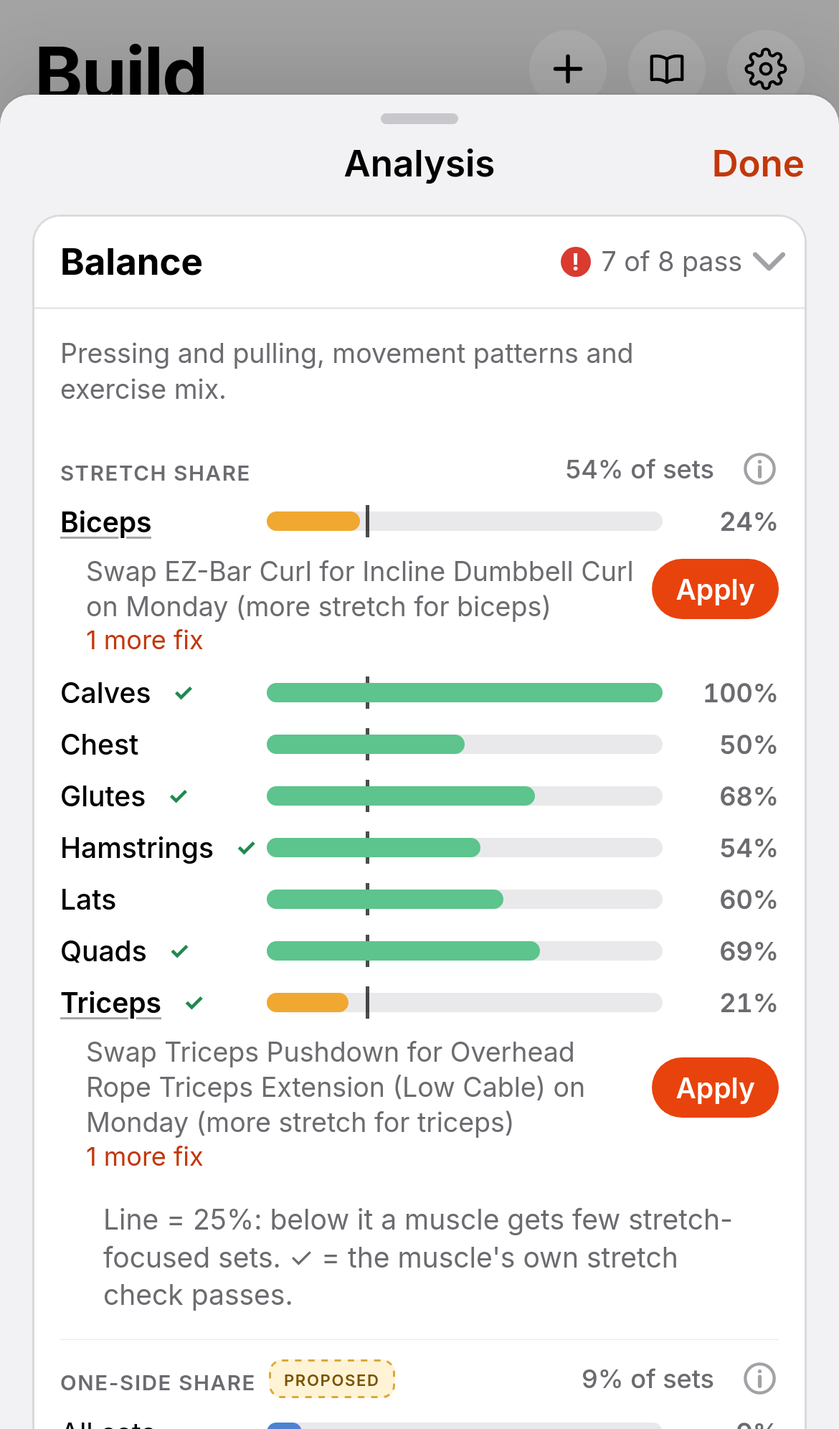
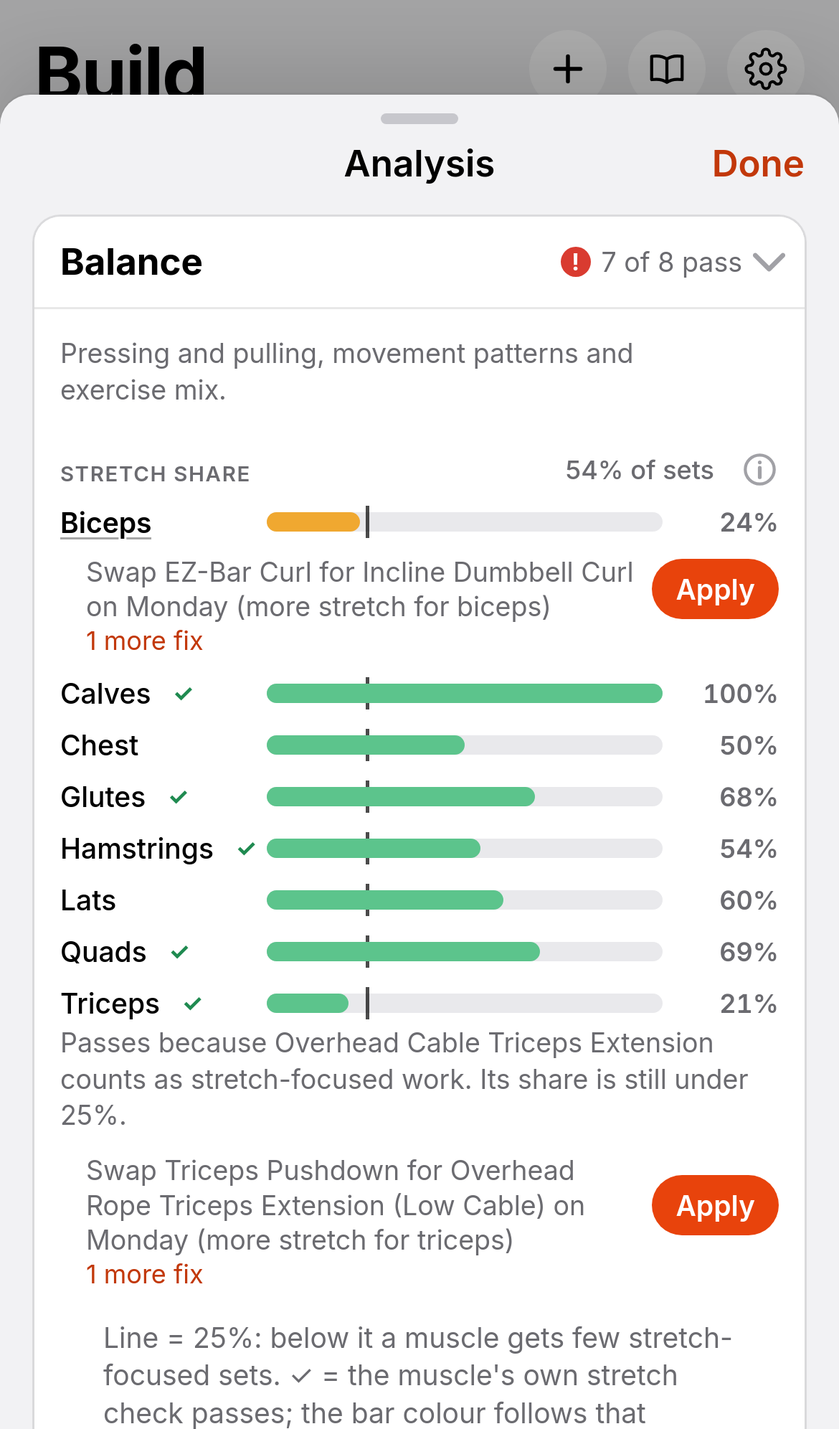
Storyboard round 3 quick fixes: no status chips, stretch bar follows its check, boundary-safe decimals, plain Program check sentences

diff --git a/storyboard/board.js b/storyboard/board.js
@@ -262,10 +262,10 @@ const pct=x=>`${Math.round(x*100)}%`,MLB=m=>X.ML[m]||LBL(m);
 function sugTarget(s,days,lv){const t=s.target||{},A=stats().A;
   if(t.flag)return PC.message(RD(),t.flag,days,lv);
   if(s.source==='lower_fatigue_swap')return `${X.exNameP(t.exercise)} has a same-pattern option with more ${MLB(t.muscle).toLowerCase()} stimulus per unit of fatigue.`;
-  if(s.source==='stretch_share')return `${MLB(t.muscle)}: ${pct(t.share)} of its sets are stretch-biased (the flag is below ${pct(RD().targets.analytics.stretch_share_flag_below)}).`;
+  if(s.source==='stretch_share')return `${MLB(t.muscle)}: ${bpct(t.share,RD().targets.analytics.stretch_share_flag_below)} of its sets are stretch-biased (the flag is below ${pct(RD().targets.analytics.stretch_share_flag_below)}).`;
   if(s.source==='effective_frequency')return `${MLB(t.muscle)} gets ${RD().targets.analytics.frequency_min_effective}+ effective sets on ${t.days} day${t.days===1?'':'s'} a week. Two days spreads the same volume.`;
   if(s.source==='recovery_vs_baseline')return `This week's modeled recovery cost is ${t.pct}% of your saved normal week.`;
-  if(s.source==='weekly_band'){const v=A.muscles[t.muscle]||{};return `${MLB(t.muscle)}: ${t.sets} effective sets a week, ${t.side==='under'?'below':'above'} the ${v.min}–${v.max} target.`}
+  if(s.source==='weekly_band'){const v=A.muscles[t.muscle]||{};return `${MLB(t.muscle)}: ${bfmt(v.raw!=null?v.raw:t.sets,v.min,v.max)} effective sets a week, ${t.side==='under'?'below':'above'} the ${v.min}–${v.max} target.`}
   return ''}
 // Logged-progress values for the Analysis sheet and the Progress tab: the synthetic log (data/progress-reference.json), not real data.
 function progressNow(){try{return X.progressData?X.progressData():null}catch(e){console.warn(e);return null}}
@@ -274,7 +274,7 @@ function curve(m,A){const v=A.muscles[m],k=v.k,x=v.x,Sx=z=>1-Math.exp(-z/k),Xm=M
   let d='';for(let i=0;i<=60;i++){const z=i/60*Xm;d+=(i?'L':'M')+px(z).toFixed(1)+','+py(Sx(z)).toFixed(1)}const nx=Sx(x+1)-Sx(x),tk=[];for(let z=0;z<=Xm;z+=Xm>30?10:5)tk.push(`<text x="${px(z)}" y="${H-14}" text-anchor="middle">${z}</text>`);
   return `<svg class="ancurve" viewBox="0 0 ${W} ${H}" data-m="${m}"><rect x="${px(v.min)}" y="8" width="${px(v.max)-px(v.min)}" height="${H-38}" class="band"/>${[0,.5,1].map(z=>`<line x1="30" x2="${W-8}" y1="${py(z)}" y2="${py(z)}"/><text x="26" y="${py(z)+3}" text-anchor="end">${z*100}%</text>`).join('')}${tk.join('')}
    <path d="${d}" class="cv"/><circle cx="${px(x)}" cy="${py(Sx(x))}" r="5" class="dot"/><text x="${px(v.min)+4}" y="20" class="bl">target ${v.min}–${v.max}</text></svg>
-   <div class="anread"><b>${X.ML[m]||m}</b>: ${x.toFixed(1)} effective sets a week → ${Math.round(Sx(x)*100)}% of the modeled max. Next set ≈ +${(nx*100).toFixed(1)}%.</div>`}
+   <div class="anread"><b>${X.ML[m]||m}</b>: ${bfmt(x,v.min,v.max)} effective sets a week → ${Math.round(Sx(x)*100)}% of the modeled max. Next set ≈ +${(nx*100).toFixed(1)}%.</div>`}
 // Round 2 batch B (item 3, Coach's analysis-spec-r2.md): no top Suggestions block. The sections are analysis_metrics v2's
 // build_analysis sections in order; each shows its suggestions inline (sheet() entry .section), then its items from
 // logic/analysis.js items() (port of tools/analysis.py items()). Every item has a kind chip (Check / Measure / Info) and an (i)
@@ -307,6 +307,12 @@ const ICO={pass:'<span class="cki ok" role="img" aria-label="Pass">✓</span>',c
 const mlk=(m,anchor)=>`<button class="mlk" data-b="mus" data-m="${m}"${anchor?` data-anchor="${anchor}"`:''}>${MLB(m)}</button>`;
 const escA=s=>String(s||'').replace(/&/g,'&amp;').replace(/"/g,'&quot;').replace(/</g,'&lt;');
 const nfmt=x=>+(+x).toFixed(2);
+// a value shown next to a target range never looks in range when it isn't: whole numbers stay whole; otherwise one decimal,
+// rounded normally unless that flips the side of the range, then rounded away from the range (7.95 of 8–20 -> 7.9)
+const bfmt=(v,lo,hi)=>{v=+v;if(Number.isInteger(v))return String(v);const side=x=>x<lo?-1:hi!=null&&x>hi?1:0,s=side(v);let r=Math.round(v*10)/10;
+  if(side(r)!==s)r=s<0?Math.floor(v*10+1e-9)/10:s>0?Math.ceil(v*10-1e-9)/10:r;return String(+r.toFixed(1))};
+// same for a share against a floor: 24.7% against 25% shows 24.7%, never 25%
+const bpct=(x,lo)=>{const p=x*100,L=lo*100,r=Math.round(p);return (p<L)===(r<L)?`${r}%`:`${+(Math.floor(p*10+1e-9)/10).toFixed(1)}%`};
 const weekLeg=()=>`<span class="mleg">${['under','in','amber','red'].map(k=>`<i style="background:${X.VFILL[k]}"></i>${({under:'Under',in:'In',amber:'Over',red:'Well over'})[k]}`).join('')}</span>`;
 function renderAnalysis(){if(!AN)return;const dt=RD(),{A,C,d}=stats(),R=dt.rules,lv=B.level;FIX=[];const sc0=AN.body.scrollTop;
   const cur=sigD();APPLIED=APPLIED.filter(a=>a.bsig!==cur); // undone (here or with the Undo bar): drop it
@@ -316,7 +322,7 @@ function renderAnalysis(){if(!AN)return;const dt=RD(),{A,C,d}=stats(),R=dt.rules
   const VCOL=((IB.weekly_sets_per_muscle||{}).value||{}).muscles||{};
   // Coach's per-muscle colour (G in range, A close, R far): amber shows amber with a Close status and is never green
   const vrow=([m,v])=>{const col=(VCOL[m]||{}).colour,st0=v.raw>0?X.vStat(v.raw,v.min,v.max):'under',st=col==='A'?'amber':col==='R'&&st0==='in'?'red':st0,VB=X.VB,top=v.max*(VB.red_factor!=null?VB.red_factor:1);const ks=col==='A'?(st0==='under'?'close-under':'close-over'):st==='amber'?'close-over':st==='red'?'over':st;
-    return `<button class="row vrow${col==='A'?' vclose':''}" data-vs="${st}" data-st="${ks}" data-col="${col||''}" data-b="mus" data-m="${m}" data-anchor="sets"><span class="vm">${X.ML[m]||m}${ks==='close-under'||ks==='close-over'||ks==='over'?`<small class="vst ${ks==='over'?'red':'amb'}">${X.VLAB[ks]}</small>`:''}</span><span class="vb"><i style="--w:${Math.min(1,v.raw/top)*100}%" class="vs-${st}"></i><b style="--x:${v.max/top*100}%"></b></span><span class="vn num">${+v.raw.toFixed(1)}<small>/${v.min}–${v.max}</small></span></button>`};
+    return `<button class="row vrow${col==='A'?' vclose':''}" data-vs="${st}" data-st="${ks}" data-col="${col||''}" data-b="mus" data-m="${m}" data-anchor="sets"><span class="vm">${X.ML[m]||m}${ks==='close-under'||ks==='close-over'||ks==='over'?`<small class="vst ${ks==='over'?'red':'amb'}">${X.VLAB[ks]}</small>`:''}</span><span class="vb"><i style="--w:${Math.min(1,v.raw/top)*100}%" class="vs-${st}"></i><b style="--x:${v.max/top*100}%"></b></span><span class="vn num">${bfmt(v.raw,v.min,v.max)}<small>/${v.min}–${v.max}</small></span></button>`};
   const T=Object.entries(A.muscles).filter(([m,v])=>v.raw>0||v.min>0),RU={};R.rules.forEach(r=>RU[r.id]=r);
   const FM=R.frequency_muscles,fq=m=>B.days.map((dd,i)=>{const e=PC.eff(dt,dd.tiles.map(t=>({id:t.id,sets:t.sets})))[m]||0;const ok=e>=dt.targets.analytics.frequency_min_effective;return `<i class="${ok?'on':e>0?'lo':''}" data-r="${RAMPL(e)}" title="${WD[i]} · ${+e.toFixed(1)} sets${ok?' (counts)':''}"></i>`}).join('');
   const SL=RU.session_length,mx=Math.max(SL.warn_min+15,...A.day.map(x=>x.minutes)),SP=A.spinal,cm=Object.keys(A.muscles).includes(AN.mus)?AN.mus:'chest';
@@ -343,10 +349,10 @@ function renderAnalysis(){if(!AN)return;const dt=RD(),{A,C,d}=stats(),R=dt.rules
   const SGS={},seen=new Set(),used=new Set();SH.forEach(s=>{const k=[s.section,sgM(s)||'',(s.fixes[0]||{}).preview||s.type].join('|');if(seen.has(k))return;seen.add(k);(SGS[s.section]=SGS[s.section]||[]).push(s)});
   const fxRow=(f,s)=>{FIX.push(Object.assign({section:s.section},f));return `<div class="fxr"><span>${f.preview}${f.resolves?'':` <em>${R.partial_label}</em>`}</span><button class="btn xs accent" data-b="apply" data-k="${FIX.length-1}">Apply</button></div>`};
   const sgHead=s=>{const t=s.target||{},m=sgM(s),v=m&&A.muscles[m];
-    if(s.source==='weekly_band')return [mlk(m,'sets'),`${nfmt(t.sets)} of ${v.min}–${v.max}`];
+    if(s.source==='weekly_band')return [mlk(m,'sets'),`${bfmt(v.raw!=null?v.raw:t.sets,v.min,v.max)} of ${v.min}–${v.max}`];
     if(s.source==='effective_frequency')return [mlk(m,'frequency'),`${t.days} of 2 days`];
     if(s.source==='low_frequency')return [mlk(m,'frequency'),`${t.flag[3]} of 2 days`];
-    if(s.source==='stretch_share')return [mlk(m,'stretch'),`${pct(t.share)} stretch-focused`];
+    if(s.source==='stretch_share')return [mlk(m,'stretch'),`${bpct(t.share,RD().targets.analytics.stretch_share_flag_below)} stretch-focused`];
     if(s.source==='lower_fatigue_swap')return [mlk(m),X.exNameP(t.exercise)];
     if(s.source==='pattern_gap'){const f=t.flag;return [m?mlk(m):(MPL[f[2]]||f[2].replace(/_/g,' ')),`${f[3]} of ${f[4]} a week`]}
     if(t.flag){const r=ruleOf(t.flag);if(r==='push_pull_imbalance')return [RLAB(r),`${t.flag[2]} pull per push`];if(r==='sets_per_exercise'){const dd=d.find(x=>x.day===t.flag[2]),tl=dd&&dd.tiles.find(x=>x.id===t.flag[3]);return [RLAB(r),`${tl?tl.sets:''} sets of ${X.exNameP(t.flag[3])} on ${dayN(t.flag[2])}`]}return [RLAB(r),'']}
@@ -366,16 +372,16 @@ function renderAnalysis(){if(!AN)return;const dt=RD(),{A,C,d}=stats(),R=dt.rules
   const fdet=(it,f,note)=>`<div class="ckd fdet ${note?'note':f.severity}" data-rule="${f.rule}"${f.muscle?` data-m="${f.muscle}"`:''}><p>${f.muscle?mlk(f.muscle)+' · ':''}${PC.message(dt,f.flag,d,lv)}</p>${who(f)?`<p class="fwho">${who(f)}</p>`:''}</div>${take(it.section,s=>(s.target||{}).flag&&JSON.stringify(s.target.flag)===JSON.stringify(f.flag),true)}`;
   const flagsOf=it=>(it.flags||[]).map(f=>fdet(it,f)).join('')+(it.notes||[]).map(f=>fdet(it,f,1)).join('');
   const ckRow=(id,o={})=>{const it=IB[id];if(!it)return '';const def=AMI[id]||{},s=st(it);
-    return `<div class="ckr${s?'':' ms'}" data-metric="${id}" data-kind="${it.kind}" data-status="${def.status}" data-evidence="${def.evidence}"${it.status?` data-check="${it.status}"`:''}${s?` data-state="${s}"`:''}${id==='volume_in_reach'?` data-amber="${AMB.length}"`:''}>${s?ICO[s]:''}<span class="ckt">${LB(id)}${def.status==='proposed'?' <span class="tag prop">Proposed</span>':''}</span><span class="ckv num">${it.status==='n/a'?`n/a · ${NA(it)}`:o.v!=null?o.v:(VAL[id]||'')}</span>${ibx(id)}</div>${o.after||''}${o.noflags?'':flagsOf(it)}`};
+    return `<div class="ckr${s?'':' ms'}" data-metric="${id}" data-kind="${it.kind}" data-status="${def.status}" data-evidence="${def.evidence}"${it.status?` data-check="${it.status}"`:''}${s?` data-state="${s}"`:''}${id==='volume_in_reach'?` data-amber="${AMB.length}"`:''}>${s?ICO[s]:''}<span class="ckt">${LB(id)}</span><span class="ckv num">${it.status==='n/a'?`n/a · ${NA(it)}`:o.v!=null?o.v:(VAL[id]||'')}</span>${ibx(id)}</div>${o.after||''}${o.noflags?'':flagsOf(it)}`};
   const gfx=(id,inner,o={})=>{const it=IB[id];if(!it)return '';const s=st(it),def=AMI[id]||{};
-    return `<div class="agfx" data-metric="${id}" data-kind="${it.kind}" data-status="${def.status}" data-evidence="${def.evidence}"${it.status?` data-check="${it.status}"`:''}${s?` data-state="${s}"`:''}><div class="ash">${s?ICO[s]:''}<span>${o.label||LB(id)}</span>${(AMI[id]||{}).status==='proposed'?'<span class="tag prop">Proposed</span>':''}${o.mod?'<span class="tag mod">Modeled</span>':''}<span class="ashv num">${o.v!=null?o.v:(VAL[id]||'')}</span>${ibx(id)}</div>${inner}${o.noflags?'':flagsOf(it)}</div>`};
+    return `<div class="agfx" data-metric="${id}" data-kind="${it.kind}" data-status="${def.status}" data-evidence="${def.evidence}"${it.status?` data-check="${it.status}"`:''}${s?` data-state="${s}"`:''}><div class="ash">${s?ICO[s]:''}<span>${o.label||LB(id)}</span>${o.mod?'<span class="tag mod">Modeled</span>':''}<span class="ashv num">${o.v!=null?o.v:(VAL[id]||'')}</span>${ibx(id)}</div>${inner}${o.noflags?'':flagsOf(it)}</div>`};
   const hbar=(lab,w,v,o={})=>`<div class="hbar${o.cls?' '+o.cls:''}"${o.attr||''}><span class="vm hbs">${lab}</span><span class="hbt"><i class="${o.c||''}" style="--w:${Math.max(0,Math.min(100,w))}%"></i>${o.x!=null?`<b style="--x:${o.x}%"></b>`:''}</span><span class="vn num">${v}</span></div>`;
   // ---- Volume: modeled stimulus (curve + one row per muscle with its green ideal band), weekly sets with fixes inline, checklist
   const volFix=new Set((SGS.volume||[]).filter(s=>s.source==='weekly_band'&&s.fixes.length).map(sgM));
   const ambInline=m=>{const a=AMB.find(x=>x.m===m);if(!a||volFix.has(m))return '';const p=cbPick('mus',m);return p?`<div class="sgr inl ambr" data-m="${m}"><div class="sgp">Suggested: ${X.exNameP(p.id)} on ${WDL[DAYS.indexOf(p.day)]}, ${setsFor(p.id)} sets</div><button class="btn xs accent ambadd" data-b="ambadd" data-m="${m}" data-id="${p.id}" data-day="${p.day}">Add</button></div>`:''};
   const stRows=`<div class="strows">${T.map(([m,v])=>{const S=z=>1-Math.exp(-z/v.k),a=S(v.min)*100,b=S(v.max)*100,x=S(v.x)*100;
     return `<div class="strow${m===cm?' on':''}" data-m="${m}"><span class="vm">${mlk(m,'curve')}</span><button class="stt" data-anm="${m}" aria-label="Show the ${MLB(m)} curve"><i class="sband" style="left:${a.toFixed(2)}%;width:${(b-a).toFixed(2)}%"></i><i class="stm" style="left:${x.toFixed(2)}%"></i></button><span class="vn num">${Math.round(x)}%</span></div>`}).join('')}</div>`;
-  const ambList=AMB.length?`<div class="ckd ambl" data-n="${AMB.length}"><p class="ambh">Passing, ${AMB.length} close to target: ${AMB.map(a=>`${mlk(a.m,'sets')} <span class="num">${nfmt(a.sets)} of ${a.min}–${a.max}</span>`).join(', ')}</p>${AMBU&&AMBU.sig===sigD()?`<div class="aplr aplc ambu"><div class="grow"><p>${AMBU.text}</p></div><button class="btn xs ink" data-b="ambundo">Undo</button></div>`:''}</div>`:'';
+  const ambList=AMB.length?`<div class="ckd ambl" data-n="${AMB.length}"><p class="ambh">Passing, ${AMB.length} close to target: ${AMB.map(a=>`${mlk(a.m,'sets')} <span class="num">${bfmt(a.sets,a.min,a.max)} of ${a.min}–${a.max}</span>`).join(', ')}</p>${AMBU&&AMBU.sig===sigD()?`<div class="aplr aplc ambu"><div class="grow"><p>${AMBU.text}</p></div><button class="btn xs ink" data-b="ambundo">Undo</button></div>`:''}</div>`:'';
   const BODY={
     volume:()=>gfx('stimulus_curve',`<div class="curvec card curve">${curve(cm,A)}</div>${stRows}<p class="foot">Green = the modeled stimulus of the muscle's ideal weekly set range; dot = this week. ${A.curveModel}. ${A.disclaimer}</p>`,{mod:1})
       +gfx('weekly_sets_per_muscle',`<div class="group vol">${T.map(r=>vrow(r)+take('volume',s=>s.source==='weekly_band'&&sgM(s)===r[0],true)+ambInline(r[0])).join('')}</div>${X.volLegend(true)}`)
@@ -387,12 +393,17 @@ function renderAnalysis(){if(!AN)return;const dt=RD(),{A,C,d}=stats(),R=dt.rules
         +gfx('frequency_two_days',`<div class="ckl fnotes">${N.map(nrow).join('')}</div>`,{noflags:1})
         +`<div class="ckl">${ckRow('consecutive_high_volume',{noflags:1})}${ckRow('day_shading')}</div>`+rest('frequency')},
     balance:()=>{const fb=dt.targets.analytics.stretch_share_flag_below,inG=new Set();
+      // bar colour follows the muscle's own stretch check when it has one (pass = green + tick, otherwise amber, no tick);
+      // muscles without a check are coloured by their share against the line. A pass below the line says why in a short note.
+      const SB=dt.rules.stretch_biased||{},onB=new Set(d.flatMap(x=>x.tiles.map(t=>t.id)));
       const ssRows=Object.entries(ss.per_muscle||{}).map(([m,v])=>{const ci=IB['stretch_'+m];if(ci)inG.add(ci.id);
-        return hbar(`${mlk(m,'stretch')}${ci?`<button class="cbx" data-b="anx" data-id="${ci.id}" data-check-item="${ci.id}" data-check="${ci.status}" aria-label="Explain: ${DLAB(ci.id)||ci.id}">${ci.status==='pass'?ICO.pass:ci.status==='attention'?ICO.attention:ICO['n/a']}</button>`:''}`,v*100,pct(v),{cls:'ssr',attr:` data-m="${m}"`,c:v<fb?'amb':'ok',x:fb*100})+take('balance',s=>s.source==='stretch_share'&&sgM(s)===m,true)}).join('');
+        const c=ci&&ci.status!=='n/a'?(ci.status==='pass'?'ok':'amb'):(v<fb?'amb':'ok');
+        const why=ci&&ci.status==='pass'&&v<fb?(()=>{const ex=(SB[m]||[]).filter(i=>onB.has(i)).map(EXN);return `<p class="ssn" data-m="${m}">Passes because ${ex.length?ex.join(' and ')+(ex.length>1?' count':' counts')+' as':'it has'} stretch-focused work. Its share is still under ${pct(fb)}.</p>`})():'';
+        return hbar(`${mlk(m,'stretch')}${ci?`<button class="cbx" data-b="anx" data-id="${ci.id}" data-check-item="${ci.id}" data-check="${ci.status}" aria-label="Explain: ${DLAB(ci.id)||ci.id}">${ci.status==='pass'?ICO.pass:ci.status==='attention'?ICO.close:ICO['n/a']}</button>`:''}`,v*100,bpct(v,fb),{cls:'ssr',attr:` data-m="${m}" data-c="${c}"`,c,x:fb*100})+why+take('balance',s=>s.source==='stretch_share'&&sgM(s)===m,true)}).join('');
       const pmx=Math.max(1,...Object.values(mps));
       const ppBar=pp&&(pp.pull_sets+pp.push_sets)?`<div class="ckd"><div class="ppbar"><span class="pu" style="flex:${pp.pull_sets}">Pull ${pp.pull_sets}</span><span class="ps" style="flex:${pp.push_sets}">Push ${pp.push_sets}</span></div><p class="ppcap">${pp.pull_to_push} pull per push · in balance at 0.75–2</p></div>`:'';
       const stretchChecks=IT.filter(i=>/^stretch_/.test(i.id)&&i.kind==='check'&&(!inG.has(i.id)||i.status!=='pass')).map(i=>ckRow(i.id)).join('');
-      return gfx('stretch_share',`<div class="hbars">${ssRows}</div><p class="foot">Line = ${pct(fb)}: below it a muscle gets few stretch-focused sets. ✓ = the muscle's own stretch check passes.</p>`)
+      return gfx('stretch_share',`<div class="hbars">${ssRows}</div><p class="foot">Line = ${pct(fb)}: below it a muscle gets few stretch-focused sets. ✓ = the muscle's own stretch check passes; the bar colour follows that check.</p>`)
         +gfx('unilateral_share',hbar('All sets',(us.overall||0)*100,pct(us.overall||0)))
         +gfx('movement_pattern_sets',`<div class="hbars pats">${Object.entries(mps).map(([k,v])=>`<button class="hbar prow" data-b="pat" data-p="${k}"><span class="vm hbs">${MPL[k]||k}</span><span class="hbt"><i style="--w:${v/pmx*100}%"></i></span><span class="vn num">${v} sets</span></button>`).join('')}</div>`)
         +`<div class="ckl">${ckRow('push_pull_ratio',{after:ppBar})}${ckRow('pattern_coverage')}${ckRow('redundant_pattern')}${stretchChecks}${ckRow('stretch_coverage')}</div>`+rest('balance')},
@@ -446,7 +457,7 @@ function ddBody(){const m=CB.key,dt=RD(),d=checkDays(),lv=B.level,SH=ANL.sheet(d
   const FN=dt.FN&&window.FREQNOTES?FREQNOTES.notes(dt,d,lv,dt.FN.templates).filter(n=>(n.muscles||[]).includes(m)):[];
   return `<div class="cbh dd" data-st="${stk}"><div class="big num">${+(+s.effective).toFixed(1)}</div><div class="sub">effective sets a week · target ${s.level_min}–${s.max} · <b class="vst ${stk==='in'?'':stk==='over'||stk==='under'?'red':'amb'}">${stl}</b></div></div>
    ${CB.last?`<div class="aplc cbu"><div class="grow"><p>${CB.last}</p></div><button class="btn sm ink" data-b="cbundo">Undo</button></div>`:''}
-   ${sec('sets','Sets vs target',`<div class="hbar ddsets"><span class="vm hbs">This week</span><span class="hbt"><s class="bnd" style="left:${X0(s.level_min)}%;width:${X0(s.max)-X0(s.level_min)}%"></s><i class="${stk==='in'?'ok':stk==='over'||stk==='under'?'bad':'amb'}" style="--w:${X0(s.effective)}%"></i></span><span class="vn num">${nfmt(s.effective)}</span></div>${kv('Ideal band',`${s.level_min}–${s.max} sets`)}${kv('Far under / far over',`below ${s.red_under_below} · above ${s.red_over_above}`)}${kv('Target evidence',s.evidence_tag)}`)}
+   ${sec('sets','Sets vs target',`<div class="hbar ddsets"><span class="vm hbs">This week</span><span class="hbt"><s class="bnd" style="left:${X0(s.level_min)}%;width:${X0(s.max)-X0(s.level_min)}%"></s><i class="${stk==='in'?'ok':stk==='over'||stk==='under'?'bad':'amb'}" style="--w:${X0(s.effective)}%"></i></span><span class="vn num">${bfmt(s.effective,s.level_min,s.max)}</span></div>${kv('Ideal band',`${s.level_min}–${s.max} sets`)}${kv('Far under / far over',`below ${s.red_under_below} · above ${s.red_over_above}`)}${kv('Target evidence',s.evidence_tag)}`)}
    ${sec('curve','Stimulus curve',A.muscles[m]?`<div class="curvec">${curve(m,A)}</div>${kv('Position',({below:'Below the ideal band',in_band:'In the ideal band',above:'Above the ideal band'})[P.curve.position])}${kv('Next set',`+${(P.curve.next_set*100).toFixed(1)}%`)}`:'',{mod:1,v:`${Math.round(P.curve.stimulus*100)}% of max`})}
    ${sec('frequency','Frequency',`<div class="ddfq">${Object.entries(P.frequency.effective_by_day).map(([k,v])=>`<span><i data-r="${RAMP(v)}"></i>${WD[DAYS.indexOf(k)]} ${nfmt(v)}</span>`).join('')}</div>${FN.map(n=>`<div class="nrow" data-note="${n.id}" data-pol="${n.polarity}">${n.polarity==='positive'?ICO.pass:ICO.close}<span>${n.text}</span></div>`).join('')}`,{v:`${P.frequency.days_hit} day${P.frequency.days_hit===1?'':'s'} with ${P.frequency.min_effective_per_day}+ sets`})}
    ${sec('stretch','Stretch',P.stretch.share==null?'<p class="foot">No stretch list for this muscle, or no sets.</p>':`<div class="hbar"><span class="vm hbs">Share${P.stretch.checked?(P.stretch.check_pass?ICO.pass:ICO.attention):''}</span><span class="hbt"><i class="${P.stretch.share<dt.targets.analytics.stretch_share_flag_below?'amb':'ok'}" style="--w:${P.stretch.share*100}%"></i><b style="--x:${dt.targets.analytics.stretch_share_flag_below*100}%"></b></span><span class="vn num">${pct(P.stretch.share)}</span></div>${P.stretch.checked?kv('Stretch check',P.stretch.check_pass?'Passes':'Needs stretch-focused work'):''}`)}
@@ -483,24 +494,59 @@ function analysisSheet(){SUGX.clear();AN=X.sheet({title:'Analysis',cls:'tall gro
 // without a validated fix (action see_analysis) links to its Analysis item instead. A board with no issue still shows the card.
 let PCI=[],PCAP=null;
 const pcItem=id=>{if(!id)return null;if(id.includes('<muscle>'))return 'stretch_share';return id.split(' / ')[0]};
-function pcHead(it){const dt=RD(),t=it.target||{},m=it.muscle,A=stats().A,f=t.flag;
-  if(it.family==='weekly_volume'){const v=A.muscles[m]||{};return [mlk(m,'sets'),`${nfmt('sets' in t?t.sets:f[3])} of ${v.min}–${v.max} sets`]}
-  if(it.family==='stretch')return [mlk(m,'stretch'),'share' in t?`${pct(t.share)} stretch-focused · below ${pct(dt.targets.analytics.stretch_share_flag_below)}`:'no stretch-focused work'];
-  if(f){const r=ruleOf(f),ds=(it.days||[]).map(dayN).join(', ');
-    if(r==='push_pull_imbalance')return [RLAB(r),`${f[2]} pull per push · 0.75–2`];
-    if(r==='pattern_gap')return [m?mlk(m):RLAB(r),`${f[3]} of ${f[4]} a week`];
-    return [m?mlk(m):RLAB(r),ds]}
-  return [m?mlk(m):(DLAB(pcItem(it.analysis_item))||it.family),'']}
+// Round 3 quick fixes: plain card sentences built here from the issue's structured fields (family, source, target, flag,
+// muscle, days, exercises) and the fix ops, so no Coach string is shown verbatim on the card. Values next to a target
+// range use bfmt / bpct (one decimal when whole-number rounding would make an out-of-range value look in range).
+const SNM=id=>X.exNameP(id); // full name: short names like "BB Bench Press" / "DB Bench Press" read as codes, and a bare "Bench press" would be ambiguous
+const EXN=id=>X.exNameP(id);
+function pcSentence(it){const dt=RD(),t=it.target||{},m=it.muscle,A=stats().A,f=t.flag,r=f?ruleOf(f):it.source,lv=B.level,RU=id=>dt.rules.rules.find(x=>x.id===id)||{};
+  const M=x=>mlk(x||m,'sets'),D=d=>dayN(d),N=x=>`<span class="num">${x}</span>`;
+  const wk=(mm,sets)=>{const v=A.muscles[mm]||{},raw=v.raw!=null?v.raw:sets;return `${mlk(mm,'sets')}: ${N(`${bfmt(raw,v.min,v.max)} of ${v.min}–${v.max}`)} sets a week`};
+  if(r==='weekly_band'||r==='weekly_volume')return wk(m||f[2],'sets' in t?t.sets:f&&f[3]);
+  if(r==='stretch_share'){const fb=dt.targets.analytics.stretch_share_flag_below;return `${mlk(m,'stretch')}: ${N(bpct(t.share,fb,1))} of its sets are stretch-focused (aim ${pct(fb)} or more)`}
+  if(r==='missing_stretch')return `${mlk(m||f[2],'stretch')}: no stretch-focused exercise this week`;
+  if(r==='effective_frequency')return `${mlk(m,'frequency')}: ${dt.targets.analytics.frequency_min_effective}+ sets on only ${N(t.days)} day${t.days===1?'':'s'} a week (aim 2)`;
+  if(r==='recovery_vs_baseline')return `Recovery cost: ${N(t.pct+'%')} of your normal week`;
+  if(!f)return m?M():(DLAB(pcItem(it.analysis_item))||it.family);
+  const x=RU(r);
+  switch(f[1]){
+    case 'sets_per_exercise':{const dd=B.days.find(d=>d.day===f[2]),tl=dd&&dd.tiles.find(q=>q.id===f[3]);return `${SNM(f[3])}: ${N((tl?tl.sets:'')+' sets')} in one session (${D(f[2])})`}
+    case 'push_pull_imbalance':{const q=+f[2];if(q===0)return 'No pulling this week';if(q===99)return 'No pushing this week';
+      return `${q<x.min_ratio?'Pulling is low':'Pushing is low'}: ${N(q)} pull sets per push set (aim ${x.min_ratio}–${x.max_ratio})`}
+    case 'pattern_gap':{const S=(dt.patterns.slots||{})[f[2]]||{name:f[2]};return `${S.name}: ${N(f[3])} exercise${f[3]===1?'':'s'} this week (aim ${f[4]||1} or more)`}
+    case 'redundant_pattern':return `${mlk(f[5]||m,'session')}: ${N(nfmt(f[6])+' sets')} from ${String(f[3]).replace(/_/g,' ')} exercises in one session (${D(f[2])})`;
+    case 'junk_volume_session':return `${mlk(f[3]||m,'session')}: ${N(nfmt(f[4])+' sets')} in one session (${D(f[2])})`;
+    case 'consecutive_high_volume':{const d2=DAYS[(DAYS.indexOf(f[2])+1)%7];return `${mlk(f[3]||m,'frequency')}: hard sessions on back-to-back days (${D(f[2])}, ${D(d2)})`}
+    case 'low_frequency':return f[3]===0?`${mlk(f[2],'frequency')}: only indirect work this week`:`${mlk(f[2],'frequency')}: trained on only ${N(f[3])} day a week (aim 2)`;
+    case 'session_hard_sets':return `${D(f[2])}: ${N(f[3]+' hard sets')} in one session (limit ${x.warn_above[lv]})`;
+    case 'session_length':return `${D(f[2])}: about ${N(f[3]+' minutes')} (aim under ${x.warn_min})`;
+    case 'spinal_load_session':return `${D(f[2])}: ${N(f[3])} heavy squat and deadlift sets (limit ${RU('spinal_load').session_warn_above[lv]})`;
+    case 'spinal_load_week':return `This week: ${N(f[2])} heavy squat and deadlift sets (limit ${RU('spinal_load').week_warn_above[lv]})`;
+    case 'many_small_entries':return `${D(f[2])}: ${N(f[3])} exercises with under 2 sets each`;
+    case 'hinge_before_squat':{const d2=DAYS[(DAYS.indexOf(f[2])+1)%7];return `Heavy deadlifts on ${D(f[2])}, then heavy squats on ${D(d2)}`}
+    case 'beginner_squat_and_deadlift':return `${D(f[2])}: heavy squats and deadlifts on the same day`;
+    case 'recovery_vs_baseline':return `Recovery cost: ${N(f[2]+'%')} of your normal week`}
+  return m?M():RLAB(r)}
+// the fix as a short plain line, from its ops (swap / sets / add / remove; remove + add of one exercise = a move)
+function pcFixText(it){const ops=(it.fix||{}).ops||[],sub=(it.target||{}).flag&&it.target.flag[1]==='sets_per_exercise'?it.target.flag[3]:null,D=dayN,out=[];
+  for(let k=0;k<ops.length;k++){const o=ops[k],nx=ops[k+1];
+    if(o.op==='remove'&&nx&&nx.op==='add'&&nx.id===o.id){out.push(`Move ${EXN(o.id)} from ${D(o.day)} to ${D(nx.day)}`);k++;continue}
+    if(o.op==='sets'){if(o.id===sub&&ops.length===1)out.push(o.to<o.from?`Cut to ${o.to}`:`Raise to ${o.to}`);
+      else{const n=o.to-o.from;out.push(n>0?`Add ${n} set${n===1?'':'s'} to ${EXN(o.id)} (${D(o.day)}, ${o.from} → ${o.to})`:`Cut ${EXN(o.id)} to ${o.to} sets (${D(o.day)})`)}}
+    else if(o.op==='swap')out.push(`Swap ${EXN(o.from_id)} for ${EXN(o.to_id)} (${D(o.day)})`);
+    else if(o.op==='add')out.push(`Add ${EXN(o.id)}, ${o.sets} set${o.sets===1?'':'s'} (${D(o.day)})`);
+    else if(o.op==='remove')out.push(`Remove ${EXN(o.id)} (${D(o.day)})`)}
+  return out.join('; ')}
 function pcheckHtml(){const dt=RD();if(!dt||!window.CHECKPRIORITY||!dt.rules.check_priority)return '';PCI=[];
   const foot=`<div class="pcfoot"><button class="btn plain" data-b="analysis">See full analysis ›</button></div>`;
   const head=n=>`<div class="pch"><b>Program check</b><span class="sub">${n}</span></div>`;
   if(openSlots())return head('Fill slots to check')+foot;
-  const L=CHECKPRIORITY.top(dt,checkDays(),B.level);PCI=L;
-  const ap=PCAP&&PCAP.asig===sigD()?`<div class="pcap"><p><b>Applied</b> · ${PCAP.preview}</p><button class="btn xs ink" data-b="pcundo">Undo</button></div>`:'';
+  const L=CHECKPRIORITY.top(dt,checkDays(),B.level);PCI=L;const fxT=it=>pcFixText(it)||it.fix.preview;
+  const ap=PCAP&&PCAP.asig===sigD()?`<div class="pcap"><p><b>Applied</b> · ${PCAP.text||PCAP.preview}</p><button class="btn xs ink" data-b="pcundo">Undo</button></div>`:'';
   if(!L.length)return head('')+ap+`<div class="pcr none" data-state="none">${ICO.pass}<div class="sgt">No pressing issues</div></div>`+foot;
-  return head(`${L.length} most pressing`)+ap+L.map((it,i)=>{const [w,n]=pcHead(it);
-    return `<div class="pcr" data-id="${it.id}" data-state="${it.state}" data-action="${it.action}" data-score="${it.score}"><span class="cki dot ${it.state==='red'?'bad':'amb'}" role="img" aria-label="${it.state==='red'?'Needs attention':'Close to target'}"></span><div class="sgt">${w}${n?` <span class="num">${n}</span>`:''}</div>
-      ${it.fix?`<button class="btn xs accent" data-b="pcapply" data-k="${i}">Apply</button><div class="sgp">${it.fix.preview}${it.fix.resolves?'':` <em>${dt.rules.partial_label}</em>`}</div>`:`<button class="btn xs grey" data-b="pcsee" data-item="${pcItem(it.analysis_item)}">See analysis</button><div class="sgp">No one-tap fix passes the checks.</div>`}</div>`}).join('')+foot}
+  return head(`${L.length} most pressing`)+ap+L.map((it,i)=>{const w=pcSentence(it);
+    return `<div class="pcr" data-id="${it.id}" data-state="${it.state}" data-action="${it.action}" data-score="${it.score}"><span class="cki dot ${it.state==='red'?'bad':'amb'}" role="img" aria-label="${it.state==='red'?'Needs attention':'Close to target'}"></span><div class="sgt">${w}</div>
+      ${it.fix?`<button class="btn xs accent" data-b="pcapply" data-k="${i}">Apply</button><div class="sgp">${fxT(it)}${it.fix.resolves?'':` <em>${dt.rules.partial_label}</em>`}</div>`:`<button class="btn xs grey" data-b="pcsee" data-item="${pcItem(it.analysis_item)}">See analysis</button><div class="sgp">No one-tap fix passes the checks.</div>`}</div>`}).join('')+foot}
 function paintPcheck(){const el=$('#pcheck');if(el)el.innerHTML=pcheckHtml()}
 // open the Analysis sheet at one item (its section expanded)
 function analysisAt(item){const S=analysisSheet();const el=item&&S.body.querySelector(`[data-metric="${item}"],[data-check-item="${item}"]`);if(!el)return S;
@@ -575,7 +621,7 @@ document.addEventListener('click',e=>{if(X.S.scr!=='build')return;
   if(k==='mus'||k==='pat')return contribSheet(k,b.dataset[k==='mus'?'m':'p'],b.dataset.anchor);
   if(k==='asec'){const s=b.closest('.asec');const o=s.dataset.open!=='1';s.dataset.open=o?'1':'0';b.setAttribute('aria-expanded',String(o));setAnOpen(s.dataset.cat,o);return}
   if(k==='pcsee')return analysisAt(b.dataset.item);
-  if(k==='pcapply'){const it=PCI[+b.dataset.k];if(!it||!it.fix)return;const before=snap();commit(()=>applyOpsBoard(it.fix.ops),`Applied: ${it.fix.preview}`);PCAP={id:it.id,preview:it.fix.preview,undo:it.fix.undo,before,asig:sigD()};paintPcheck();return}
+  if(k==='pcapply'){const it=PCI[+b.dataset.k];if(!it||!it.fix)return;const before=snap();const tx=pcFixText(it)||it.fix.preview;commit(()=>applyOpsBoard(it.fix.ops),`Applied: ${tx}`);PCAP={id:it.id,preview:it.fix.preview,text:tx,undo:it.fix.undo,before,asig:sigD()};paintPcheck();return}
   if(k==='pcundo'){if(!PCAP)return;const P0=PCAP;PCAP=null;B.hist.push(snap());if(P0.asig===sigD()){try{applyOpsBoard(P0.undo)}catch(x){restore(P0.before)}}else restore(P0.before);paint();hideUndo();X.toast('Suggestion undone');return}
   if(k==='ddapply'){const z=CFIX[+b.dataset.k];if(!z)return;commit(()=>applyOpsBoard(z.ops),`Applied: ${z.preview}`);if(CB){CB.last=`Applied: ${z.preview}`;cbRe()}return}if(k==='cbclose')return CB&&CB.close();
   if(k==='cbrm'){const f=findT(b.dataset.u);if(!f)return;const nm=X.exNameP(f.t.id),dn=WD[DAYS.indexOf(f.d.day)];commit(()=>removeU([b.dataset.u]),`Removed ${nm}`);if(CB){CB.last=`Removed ${nm} from ${dn}.`;cbRe()}return}
@@ -633,5 +679,5 @@ Object.assign(X.ROUTES,{
  'build-tray-detail-nophoto':['build','build',0,0,()=>{Object.assign(TFB,{mus:null,pat:null,eq:null,mode:'sug'})},()=>{traySheet('wed');setTimeout(()=>X.exDetail('cable-fly',{addLabel:'Add to Wed',onAdd:trayAdd}),60)}],
  'build-tray-filter':['build','build',0,0,()=>{Object.assign(TFB,{mus:null,pat:'vertical_pull',eq:null})},()=>traySheet('thu')],
 });
-window.BOARD={loadPreset:id=>{const [sp,lv,n]=id.split('/'),s=RD().splits.splits.find(x=>x.id===sp);loadDays(s.levels[lv][n],`${s.name} · ${n} days`);B.level=lv;B.hist=[];PCAP=null;APPLIED=[];X.render()},applyOps:ops=>{applyOpsBoard(ops);paint()},get pcheck(){return PCI},get detail(){return BD.detail},fracLine,muscleShort,get tpl(){return B.tpl},slots:()=>B.days.map(d=>({day:d.day,slots:(d.slots||[]).map(s=>s.sid)})),rankBoard,fillDefaults,loadTemplate:id=>{loadTemplate(TP().find(RD().TJ,id));B.hist=[];paint()},get tray(){return {slot:TFB.slot,only:TFB.only}},get map(){return MAPV},get applied(){return APPLIED},get state(){return B},days:()=>checkDays(),stats:()=>stats(),reset:()=>{initBoard();X.render()},sig:()=>JSON.stringify(B.days.map(d=>d.tiles.map(t=>[t.id,t.sets]))),days7:()=>B.days.map(d=>({day:d.day,label:d.label,rest:isRest(d),n:d.tiles.length})),undo};
+window.BOARD={fmt:{bfmt:(...a)=>bfmt(...a),bpct:(...a)=>bpct(...a)},loadPreset:id=>{const [sp,lv,n]=id.split('/'),s=RD().splits.splits.find(x=>x.id===sp);loadDays(s.levels[lv][n],`${s.name} · ${n} days`);B.level=lv;B.hist=[];PCAP=null;APPLIED=[];X.render()},applyOps:ops=>{applyOpsBoard(ops);paint()},get pcheck(){return PCI},get detail(){return BD.detail},fracLine,muscleShort,get tpl(){return B.tpl},slots:()=>B.days.map(d=>({day:d.day,slots:(d.slots||[]).map(s=>s.sid)})),rankBoard,fillDefaults,loadTemplate:id=>{loadTemplate(TP().find(RD().TJ,id));B.hist=[];paint()},get tray(){return {slot:TFB.slot,only:TFB.only}},get map(){return MAPV},get applied(){return APPLIED},get state(){return B},days:()=>checkDays(),stats:()=>stats(),reset:()=>{initBoard();X.render()},sig:()=>JSON.stringify(B.days.map(d=>d.tiles.map(t=>[t.id,t.sets]))),days7:()=>B.days.map(d=>({day:d.day,label:d.label,rest:isRest(d),n:d.tiles.length})),undo};
 })();

diff --git a/storyboard/sb.js b/storyboard/sb.js
@@ -1128,7 +1128,7 @@ const learnGo=lp=>{const [p,sx]=String(lp).split('#');return `#learn-f-${p}${sx?
 const ibtn=(id,attr='data-xpl')=>`<button class="ixb" ${attr}="${id}" aria-label="What is this?">${I('info',1.8)}</button>`;
 function explainSheet(id,extra=''){const it=itemDef(id);if(!it)return null;const x=it.explain||{},lp=x.learn_page;
   const s=sheet({title:'',cls:'grouped xsheet',right:'<button class="btn plain" data-x="close">Done</button>',
-    body:`<div class="xpl" data-item="${id}"><div class="xh">${kchip(it.kind)}<span class="tag ev ${it.evidence}">${EVT[it.evidence]||'Modeled'}</span>${it.status==='proposed'?'<span class="tag prop">Proposed</span>':''}</div><h3>${dispL(id,it.label)}</h3>
+    body:`<div class="xpl" data-item="${id}"><div class="xh">${kchip(it.kind)}<span class="tag ev ${it.evidence}">${EVT[it.evidence]||'Modeled'}</span></div><h3>${dispL(id,it.label)}</h3>${it.status==='proposed'?'<p class="xprop">This measure is still proposed in the analysis spec, not yet a settled check.</p>':''}
      <div class="group xq"><div class="row"><div class="grow"><div class="xk">What it measures</div><p>${x.what||it.description||''}</p></div></div>
       <div class="row"><div class="grow"><div class="xk">How it's calculated</div><p>${x.how||it.formula||''}</p></div></div>
       <div class="row"><div class="grow"><div class="xk">Why it matters</div><p>${x.why||''}</p></div></div></div>

diff --git a/storyboard/sb.css b/storyboard/sb.css
@@ -1100,3 +1100,6 @@ details.ls.flash{box-shadow:0 0 0 3px var(--accent);border-radius:var(--r-md)}
 .hbar:has(+ .sgr) .mlk,.strow.flg .mlk{text-decoration:underline;text-decoration-color:color-mix(in srgb,currentColor 35%,transparent);font-weight:600}
 .anmap .mp{cursor:pointer}
 .ansheet .hbar button.cbx{-webkit-appearance:none;appearance:none;display:inline-grid;place-items:center;padding:0;margin:0 0 0 3px;background:none;border:0;box-shadow:none;width:16px;height:16px;min-width:0;min-height:0;vertical-align:-2px}
+/* Round 3 quick fixes */
+.ssn{margin:-2px 0 6px 0;font-size:12.5px;color:var(--text-2);line-height:1.35}
+.xprop{font-size:13px;color:var(--text-2);margin:2px 0 8px}

diff --git a/storyboard/ARCHITECTURE-web-storyboard.md b/storyboard/ARCHITECTURE-web-storyboard.md
@@ -336,3 +336,17 @@ The suite runs all three (`r3*` checks).
 - In phone landscape the Program check card is hidden (`.pcheck{display:none}` inside the landscape media query), so the board keeps the full height. The card lives under the week view in portrait.
 - Each per-muscle check mark in the stretch-share chart is an ⓘ button (`button.cbx[data-b=anx]`). Tapping it opens that stretch check's explainer, so every item keeps its explainer.
 - The analysis sheet body has a no-op click listener. In WebKit, taps on the map's SVG paths only fire click when an ancestor below body has a listener.
+
+**Round 3 quick fixes (CoS, 2026-10-23)**
+- No kind or status chips anywhere. The "Proposed" status stays in `data-status`, and the explain sheet says it in words (`.xprop`). The evidence tags (Modeled, Thin) are kept as honesty labels.
+- Stretch-share bars: when a muscle has its own stretch check, the bar colour follows that check. A pass is green with a ✓; anything else is amber with no ✓.
+  - Muscles without a check are coloured by their share against the 25% line.
+  - A pass under the line gets a plain note (`.ssn`) naming the stretch-focused exercises behind it.
+- Boundary formatting: `bfmt(v,lo,hi)` and `bpct(x,floor)` format values shown next to a range.
+  - Whole numbers stay whole. Otherwise one decimal, rounded away from the range when normal rounding would put the shown value inside it (7.95 of 8–20 shows 7.9; 24.7% against 25% shows 24.7%).
+  - Used on the card, the suggestion heads and titles, the close-to-target list, the weekly-sets rows, the curve readout, the deep-dive sets row and the stretch bars.
+  - Weekly sets are shown from `A.muscles[m].raw`, not Coach's rounded `target.sets`.
+- Program check copy: `pcSentence(it)` builds one plain sentence per issue from the structured fields (family, source, target, flag tuple, rule thresholds in rules.json). `pcFixText(it)` builds the fix line from `fix.ops`:
+  - Cut to N / Add N sets / Swap / Add / Remove / Move;
+  - `fix.preview` only as a fallback.
+  - No Coach display string is shown verbatim on the card.
